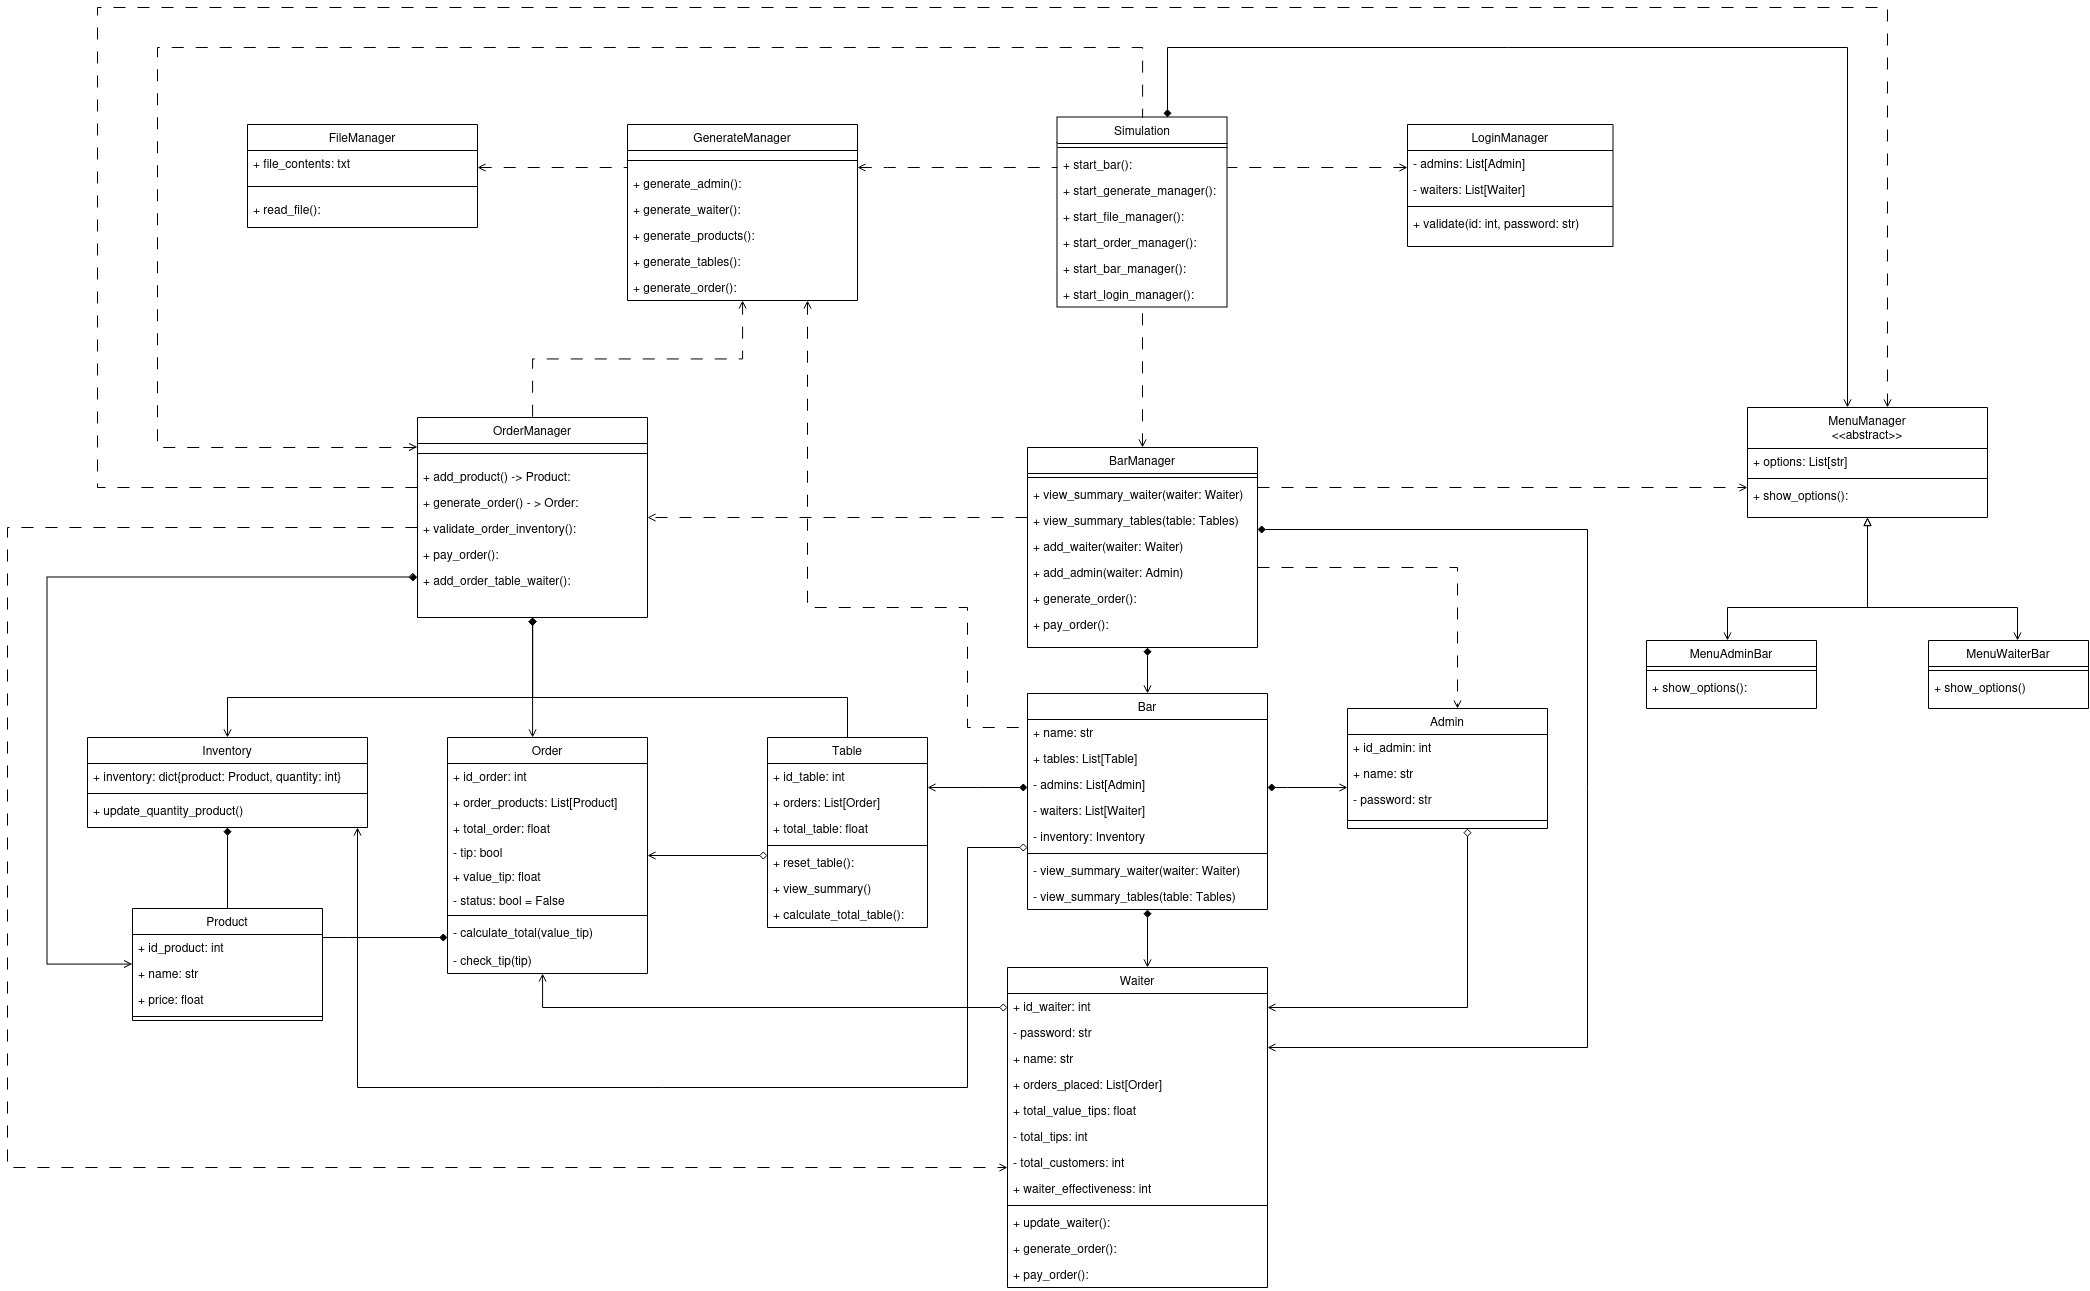
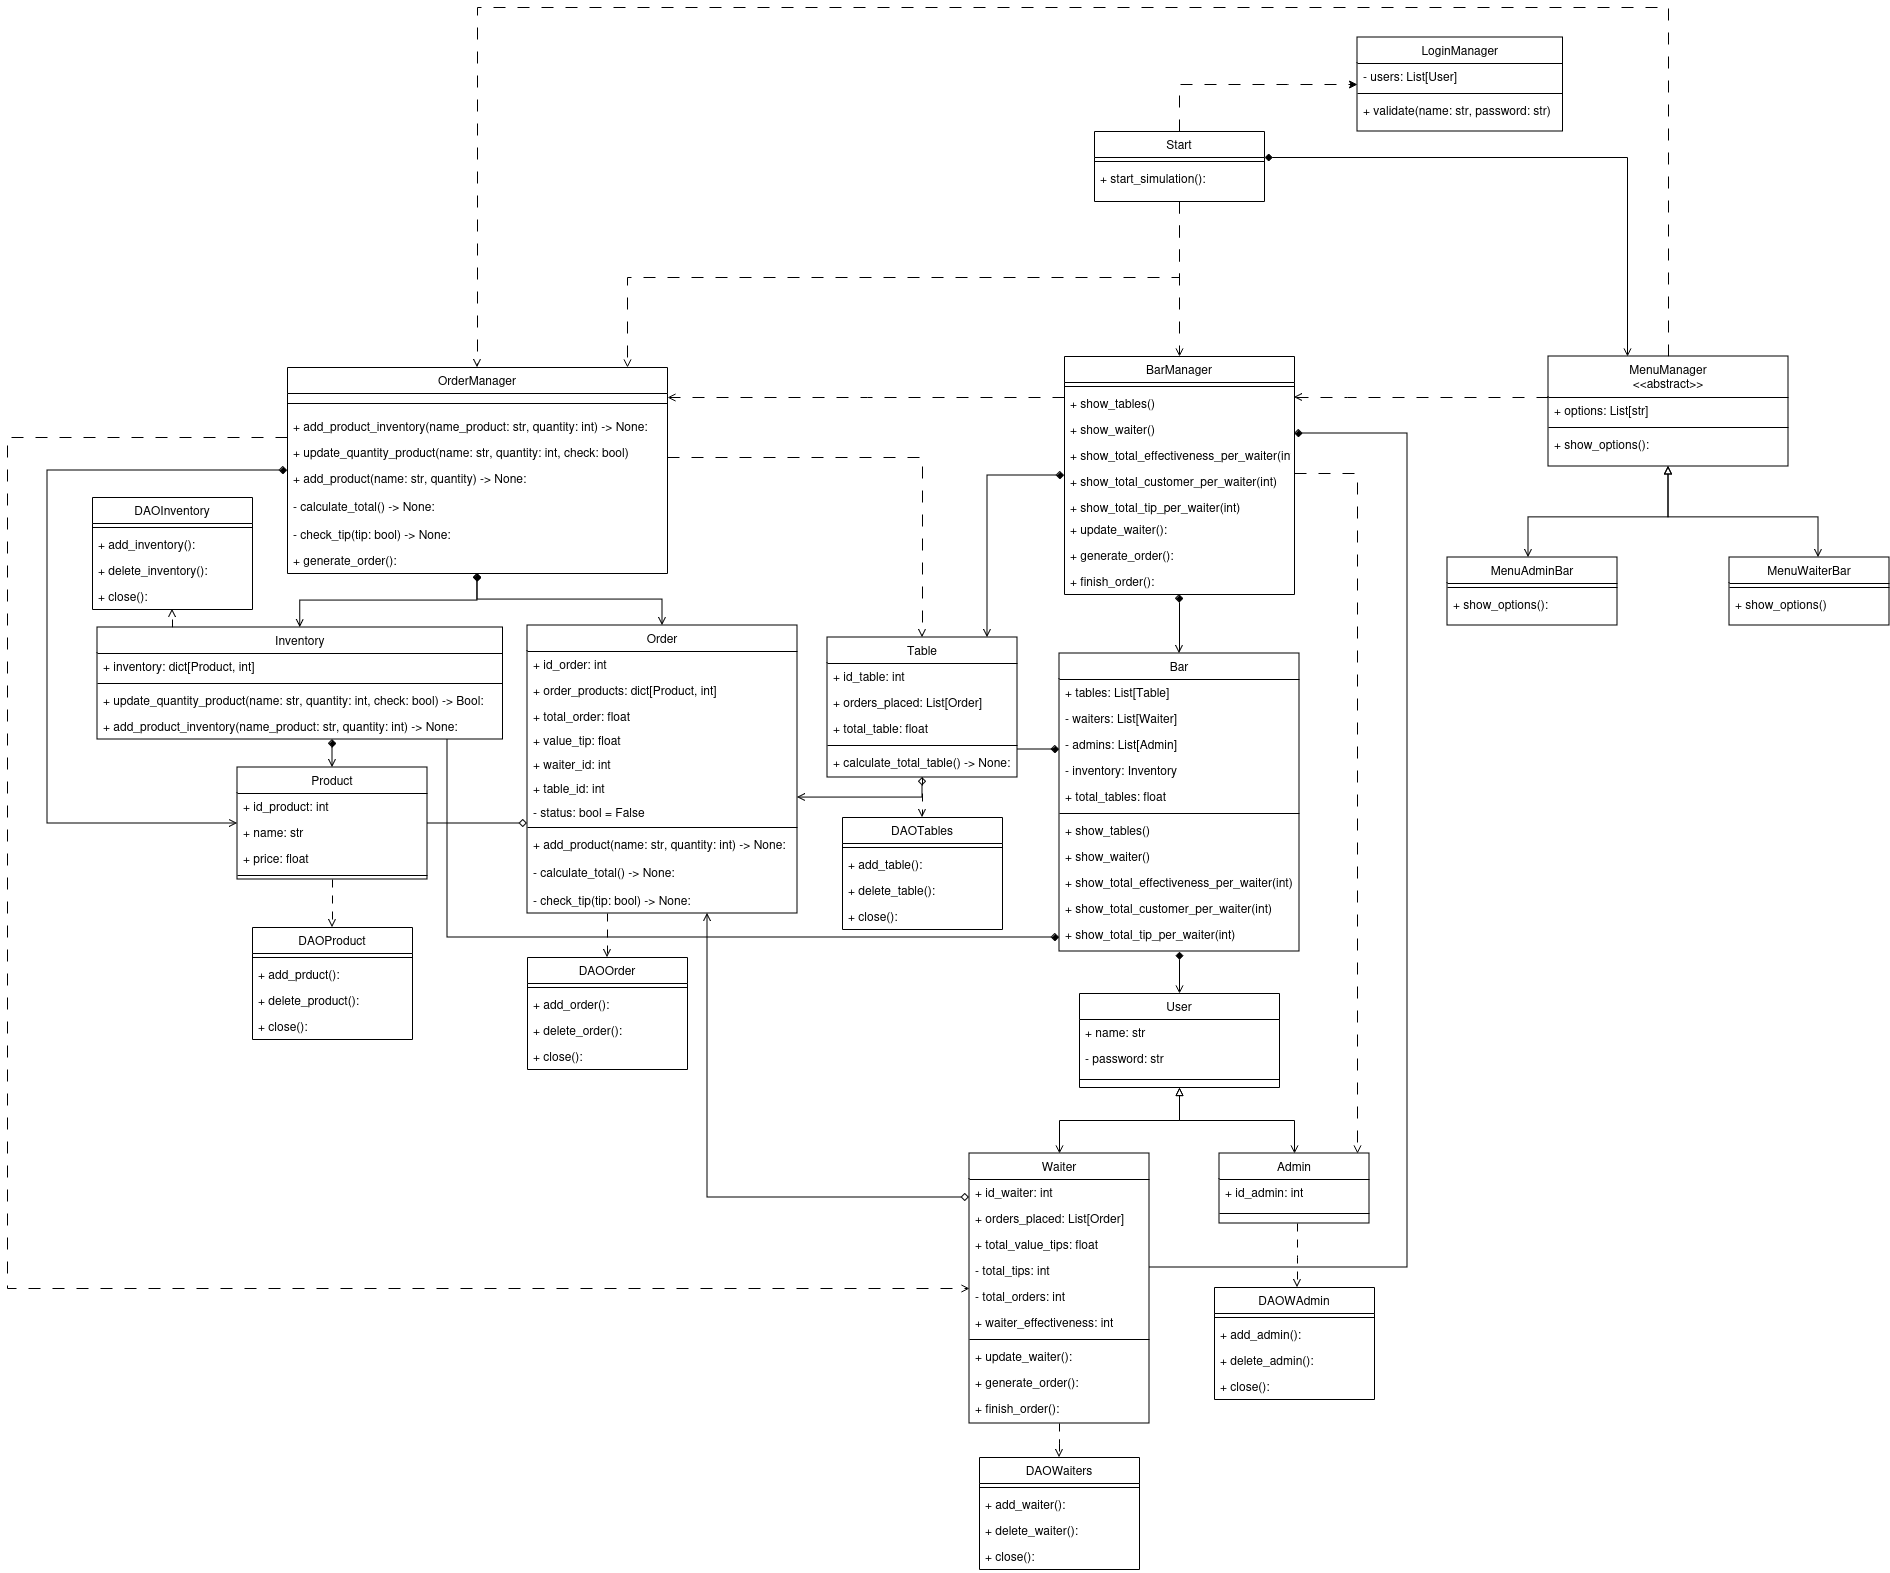
update link and Bar Class Diagram

diff --git a/src/databaseController/DAOManager.py b/src/databaseController/DAOManager.py
@@ -1,6 +1,7 @@
-
 import sqlite3
 from models import Admin
+
+
 class AdminManager:
     def __init__(self, db_name: str):
         self.conn = sqlite3.connect(db_name)
@@ -21,7 +22,7 @@ class AdminManager:
     def close(self):
         """Cierra la conexión"""
         self.conn.close()
-        
+
     def delete_admin(self, admin : Admin):
         """Elimina un administrador de la base de datos por ID"""
         try:

diff --git a/README.md b/README.md
@@ -29,6 +29,6 @@
     - The system must manage the user login (administrator or waiter) also provides a menu of options accordingly.
 
 ## UML Diagram Class
-- url: https://drive.google.com/file/d/1ADOTfOcsMje05PkEfQukSYhZCVEORzXI/view?usp=sharing
+- url: https://drive.google.com/file/d/1klMp5p3ypNC_fg-_QSDYqmc7Rv4gzxJE/view?usp=sharing
 - image: 
 ![Modelo de clases](./assets/Bar_Class_Diagram.png)
